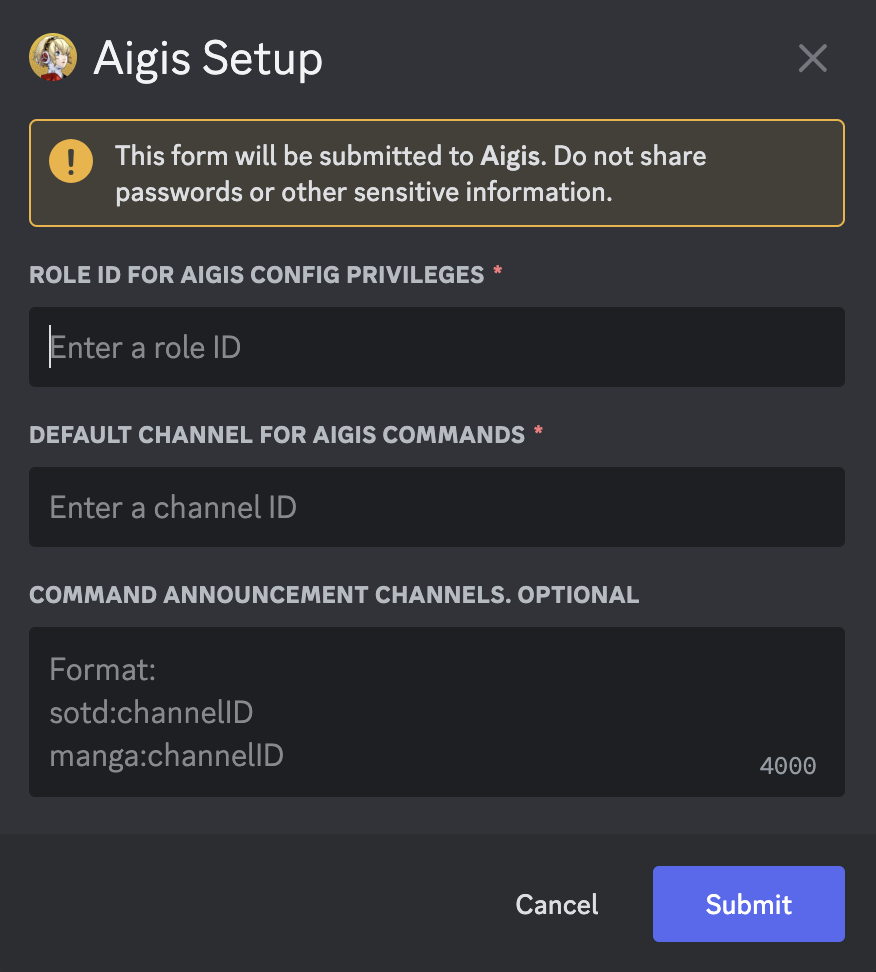
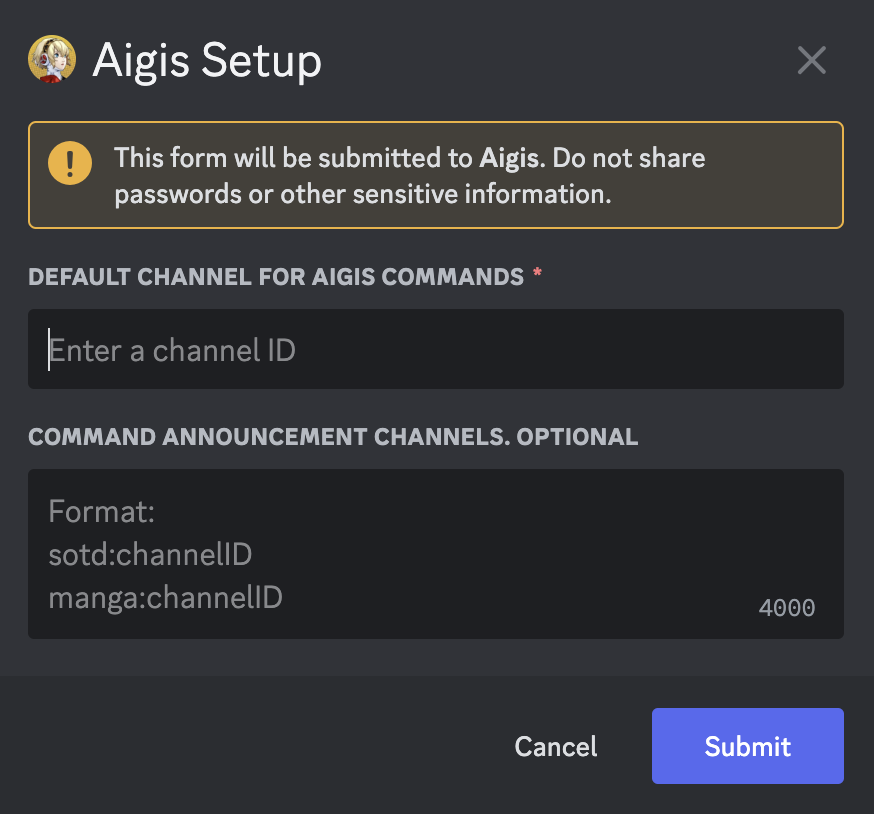
documentation

diff --git a/README.md b/README.md
@@ -44,15 +44,10 @@ The first thing to do when Aigis joins would be to run the `/setup` command. Thi
 
 To properly execute `/setup`, the person doing it should have [developer mode enabled to get channel and role IDs](https://support.discord.com/hc/en-us/articles/206346498-Where-can-I-find-my-User-Server-Message-ID)
 
-The setup screen will have 3 input boxes.
-1. **A role ID to allow a user to run privileged bot commands. There are not many of these at the moment.**
-   - Being the server owner does not mean you are exempt from needing the role. The server owner should also have this role.
-   - This does not include administrative commands like `setup` and `purge`. For those, the user needs "manage server" permissions. This role is used for Aigis' feature configuration.
-   - To allow everyone in the server to run privileged bot commands, put "everyone" for the role ID.
-   - This might be removed if it is decided that only separating "manage server" permissions from everyone else makes more sense.
-2. **A default channel ID for Aigis to send messages in**
+The setup screen will have 2 input boxes.
+1. **A default channel ID for Aigis to send messages in**
    - This does not force her to send all messages in this channel, but messages that are not responses to commands will automatically go there. This could be your dedicated bot channel other bots use.
-3. **A list of commands with channel IDs for them to use**
+2. **A list of commands with channel IDs for them to use**
    - Core features of Aigis might want to have their own dedicated channels, since they can be announcement-esque features. Think of this as being an override for the default channel ID for this specific command.
    - The format should be `<command>:<Channel ID>` with one per line.
    - This works for the `manga` and `sotd` (Song of the Day) commands.
@@ -89,6 +84,7 @@ To see all Aigis commands, and whether they are enabled or disabled on your serv
 - `/command list <datastore>` - Get a list of all non-admin Aigis commands. Optionally, set `datastore` to true to only list commands that store data.
 - `/command enable <command-name>` - Enable an Aigis command on the server. Use command name "all" to enable all non-admin commands.
 - `/command disable <command-name>` - Disable an Aigis command on the server. Use command name "all" to disable all non-admin commands.
+- `/sotd permissions <role>` - Make it so only people with the given role can add/remove playlists from the Song of the Day rotation. Use @everyone or the guild ID to give this permission to everyone (this is the default). This subcommand requires manage server permissions.
 
 ## Basic Commands
 
@@ -120,9 +116,6 @@ There are a few restrictions on what playlists can be chosen:
 2. The playlist must be public.
 3. The playlist must have at least 35 songs. This is to promote diversity in what songs are chosen. Aigis will not check for duplicate song entries though. If a playlist has 35 songs, is added, and then songs are removed to make it less than 35 songs, the playlist will be removed from rotation. 
 
-**NOTE:** Adding and removing a playlist from the Song of the Day list are currently **privileged commands**. That is, only users with the role ID set in `/setup` can execute them. This is to prevent random people in the server from tampering with the rotation.
-- These are currently the only privileged commands Aigis has
-
 ### Playlist IDs
 To identify playlists, Spotify has an internal ID system. That is how playlists need to be referred to when using them in commands. To get a playlist's ID, copy the link as if you were going to share it. The link should be something like:
 
@@ -145,8 +138,6 @@ Aigis can also interact with various manga websites to retrive information about
 - Click [here](#supported-websites-and-content-rating) a list of supported Manga websites.
 
 The announcement for manga chapter releases will happen in the channel set using `manga:<channel ID>` in the `/setup` command, or the default bot channel if one is not specified.
-
-Since the manga command is implemented on a user basis instead of a server basis like Song of the Day, there are no privileged subcommands.
 
 ### Manga IDs
 Similar to how Spotify uses playlist IDs to identify playlists, manga websites use manga IDs to identify manga. Getting the ID of a manga is different depending on the website, and some websites do not use IDs unique enough to differentiate them from other websites based on ID alone.
@@ -245,7 +236,7 @@ With the addition of Velvet Tokens comes a method of gambling them away in Black
   - If you have less than 5 VT you cannot play, but just wait until the next day and you can claim 100 free daily tokens.
 
 Because this is Aigis form Persona 3, I decided to use Persona themed cards instead of a standard deck. The suits are the minor arcana from Persona 3 and 4 (cups, swords, wands, and coins). Face cards and Aces have members of SEES on them.
-- I do plan to remake the Aces, but they will still feature Makoto
+- I might remake the Aces, but they will still feature Makoto
 - Even though Blackjack has no Joker cards, I still made one for fun
 
 <p align="center">
